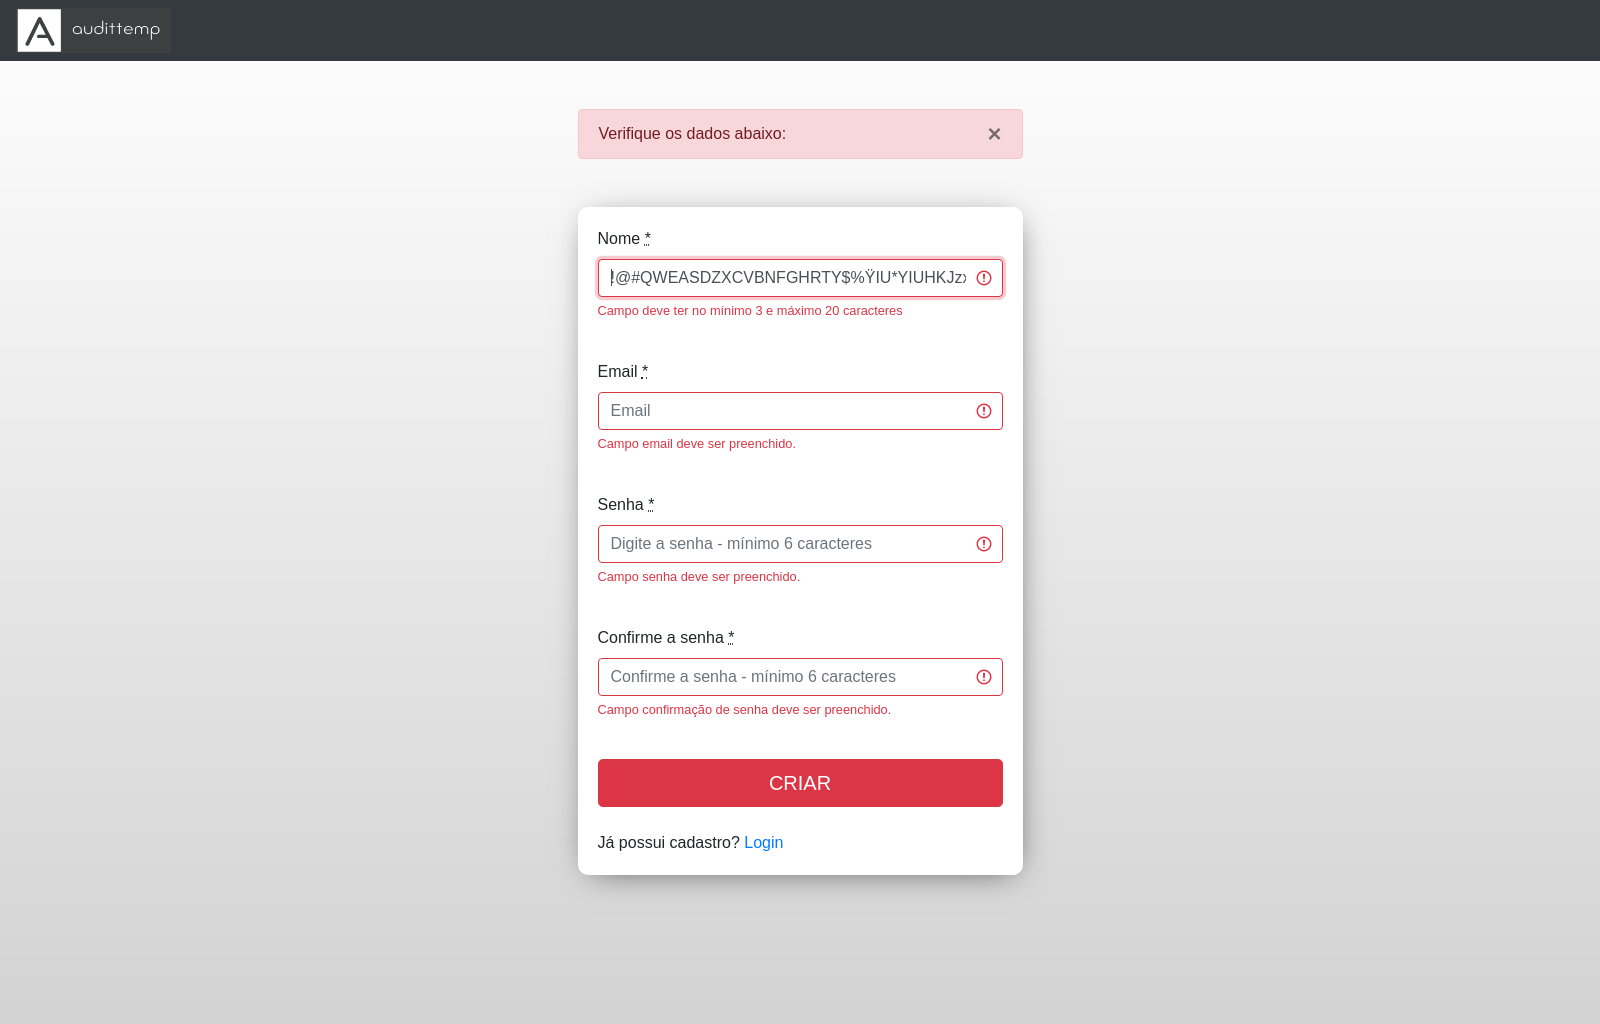
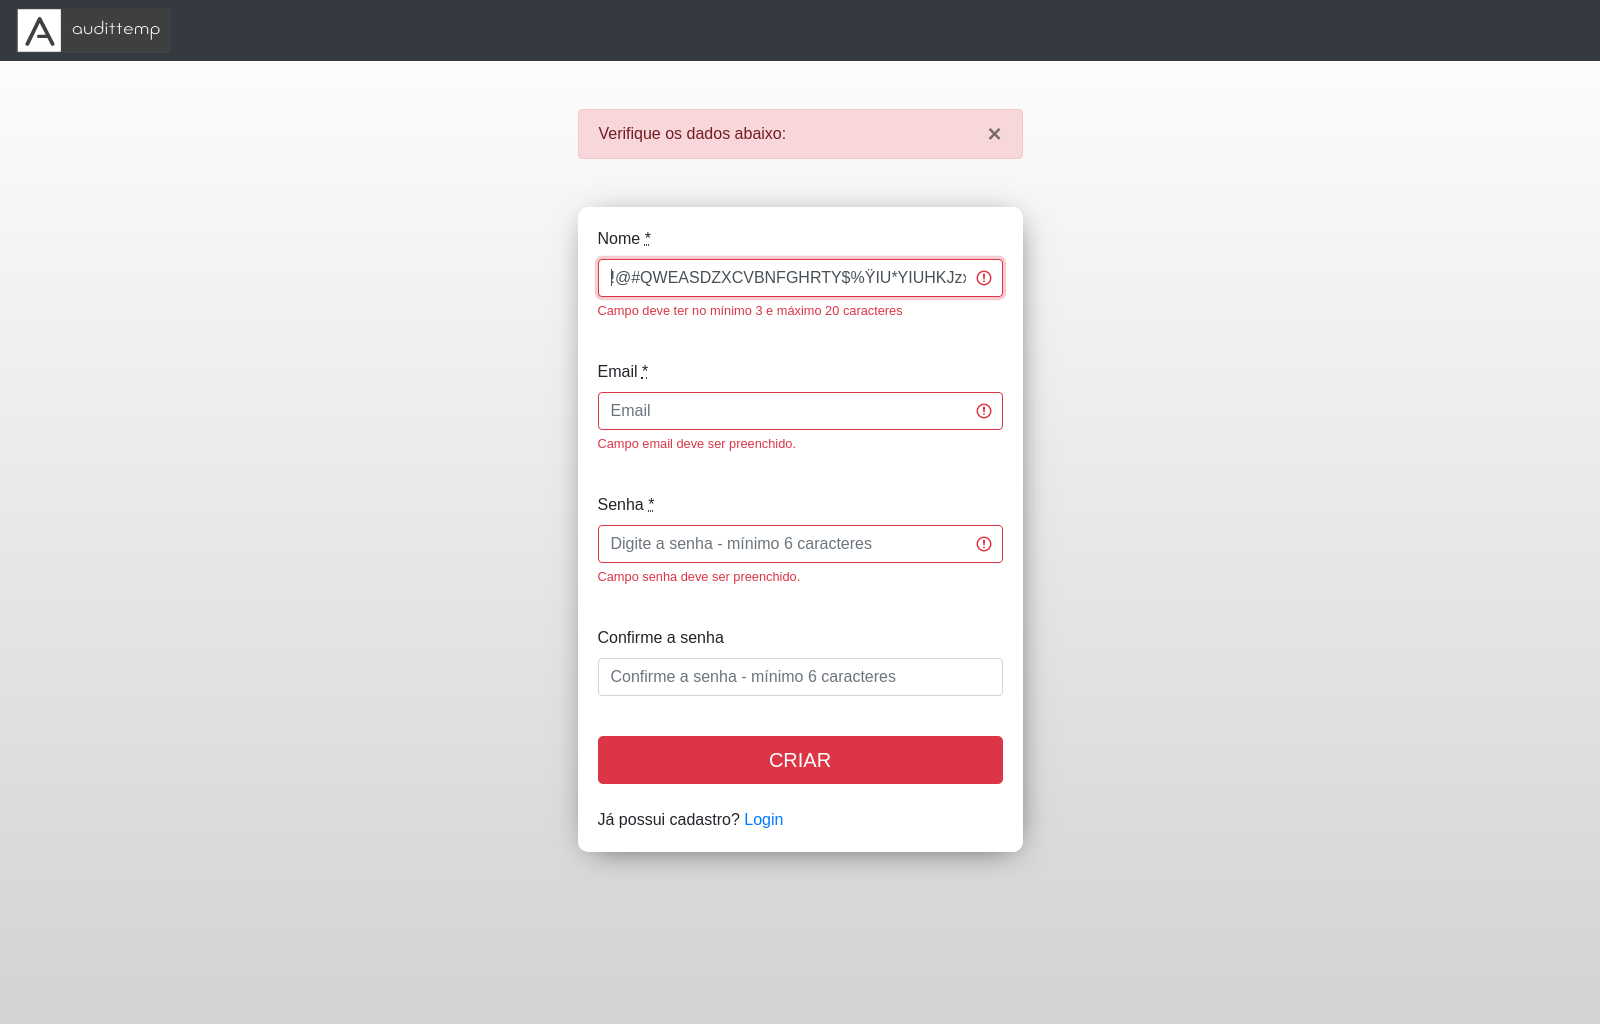
Add pass and password_confirmation testing

Changed region(s): [[0.3438, 0.6875, 0.6562, 0.875]]

diff --git a/features/steps_definitions/cadastro_step.rb b/features/steps_definitions/cadastro_step.rb
@@ -30,11 +30,12 @@ Quando("preencher a confirmação de senha com {string}") do |senha|
     find('.btn.btn.btn-lg.btn-danger.btn-block.text-uppercase').click        
 end
 
-
 Quando("preencher a o campo senha e confirmação de senha") do
     sleep 3
     find("#user_password").click
     find("#user_password").send_keys("senhar54yu")
+    sleep 3
+    find("#user_password_confirmation").click
     find("#user_password_confirmation").send_keys("senhar34t245y254yu")
     find('.btn.btn.btn-lg.btn-danger.btn-block.text-uppercase').click        
 end
